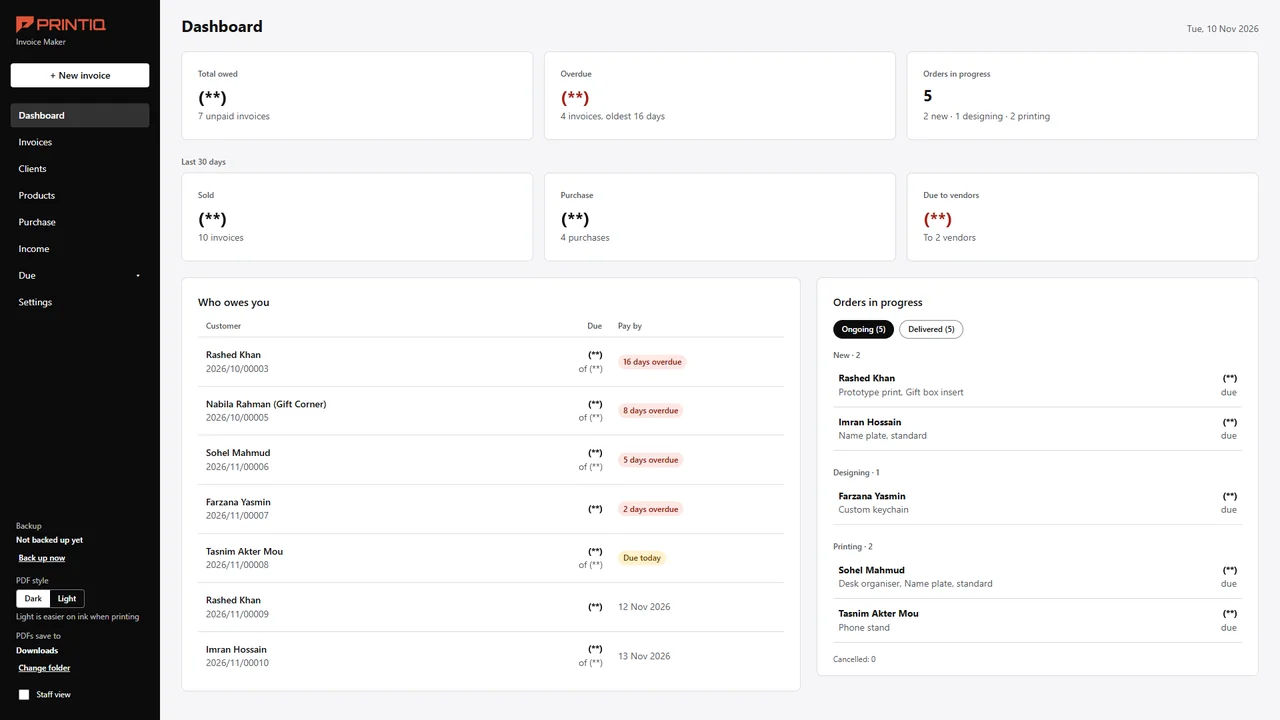
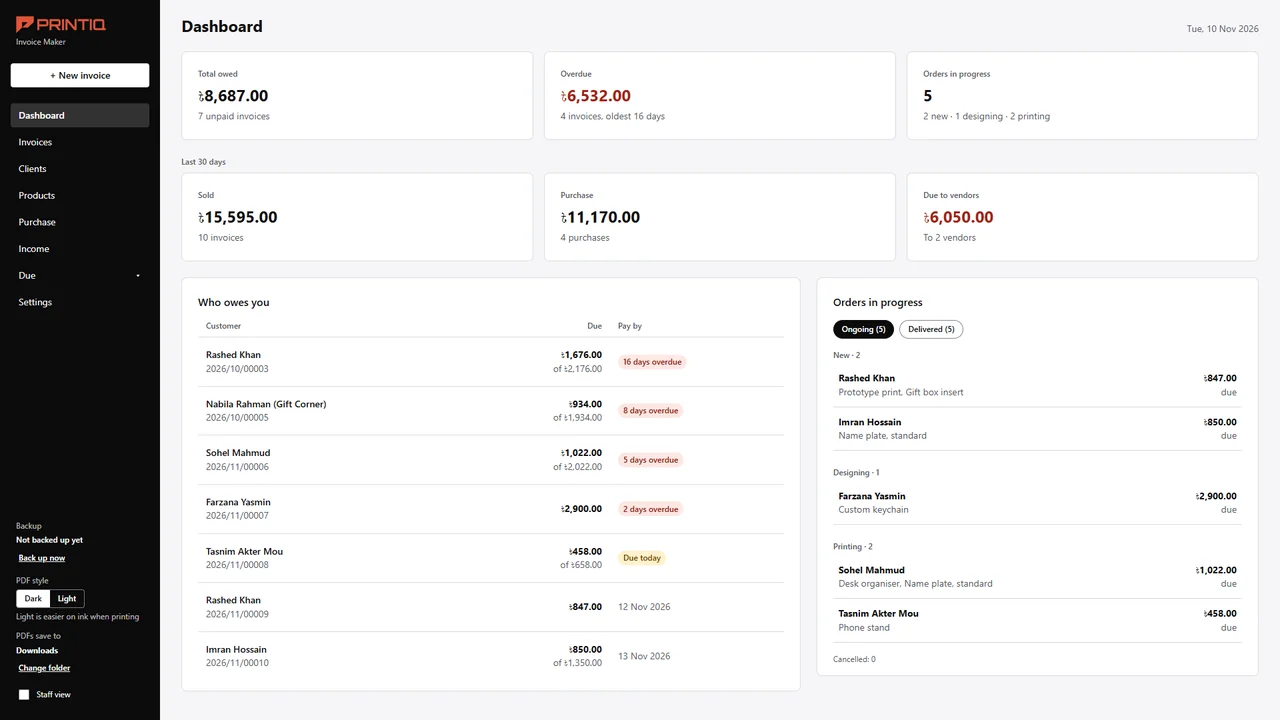
Fix proof scene buttons, restore demo dashboard numbers

diff --git a/js/sections.js b/js/sections.js
@@ -63,7 +63,9 @@ function initSections(){
     var stage=document.getElementById('pstage'),scenes=gsap.utils.toArray('#pstage .pscene');
     stage.classList.add('js-pin');document.body.classList.add('js-pin');
     scenes.forEach(function(sc){gsap.set(sc.querySelectorAll('.pimg'),{opacity:0,transformPerspective:1600});gsap.set(sc.querySelector('.ptext'),{opacity:0})});
-    var tl=gsap.timeline({scrollTrigger:{trigger:stage,start:'top top',end:'+='+(scenes.length*100+40)+'%',scrub:.9,pin:true,anticipatePin:1,refreshPriority:1}});
+    /* the scenes are stacked on top of each other: only the scene whose text is visible may take clicks */
+    function updatePE(){scenes.forEach(function(sc){var t=sc.querySelector('.ptext');t.style.pointerEvents=(parseFloat(gsap.getProperty(t,'opacity'))>.5)?'auto':'none'})}
+    var tl=gsap.timeline({onUpdate:updatePE,scrollTrigger:{trigger:stage,start:'top top',end:'+='+(scenes.length*100+40)+'%',scrub:.9,pin:true,anticipatePin:1,refreshPriority:1}});
     scenes.forEach(function(sc,i){
       var t=i*2,imgs=sc.querySelectorAll('.pimg'),txt=sc.querySelector('.ptext');
       tl.fromTo(txt,{opacity:0,y:70},{opacity:1,y:0,duration:.7,ease:'power3.out'},t)
@@ -73,6 +75,7 @@ function initSections(){
           .to(imgs,{opacity:0,z:360,x:-300,rotationY:-32,duration:.6,ease:'power2.in',stagger:.07},t+1.45);
       }
     });
+    updatePE();
     /* scene i is fully on screen at timeline time i*2+1.1 */
     function sceneY(i){var st=tl.scrollTrigger;return st.start+(st.end-st.start)*((i*2+1.1)/tl.duration())}
     anchorY.proof=function(){return tl.scrollTrigger?sceneY(0):null};

diff --git a/index.html b/index.html
@@ -26,7 +26,7 @@
 <link rel="preconnect" href="https://fonts.googleapis.com">
 <link rel="preconnect" href="https://fonts.gstatic.com" crossorigin>
 <link href="https://fonts.googleapis.com/css2?family=Inter:wght@400;500&family=JetBrains+Mono:wght@400&family=Plus+Jakarta+Sans:wght@500;600;700;800&display=swap" rel="stylesheet">
-<link rel="stylesheet" href="css/site.css">
+<link rel="stylesheet" href="css/site.css?v=20261114">
 </head>
 <body>
 <a class="skip" href="#top">Skip to content</a>
@@ -328,7 +328,7 @@
 </footer>
 
 <script defer src="js/form.js"></script>
-<script defer src="js/sections.js"></script>
+<script defer src="js/sections.js?v=20261114"></script>
 <script defer src="js/hero.js"></script>
 <script defer src="js/main.js"></script>
 </body>

diff --git a/css/site.css b/css/site.css
@@ -153,6 +153,7 @@ section{position:relative;overflow-x:clip;padding-block:var(--space-section)}
 .pimg.phone{max-width:300px;justify-self:center}
 .js-pin .pstage{position:relative;height:100vh;padding-top:84px}
 .js-pin .pscene{position:absolute;inset:84px 0 0 0;margin:0;display:grid;grid-template-columns:5fr 7fr;gap:4rem;align-items:center}
+.js-pin .pscene,.js-pin .pimg{pointer-events:none}
 .js-pin .pshots{display:block;position:relative;height:72vh;margin:0}
 .js-pin .pimg{position:absolute;margin:0;transform-style:preserve-3d;will-change:transform,opacity}
 .js-pin .pimg.phone{max-width:none;height:92%;aspect-ratio:750/1624}
